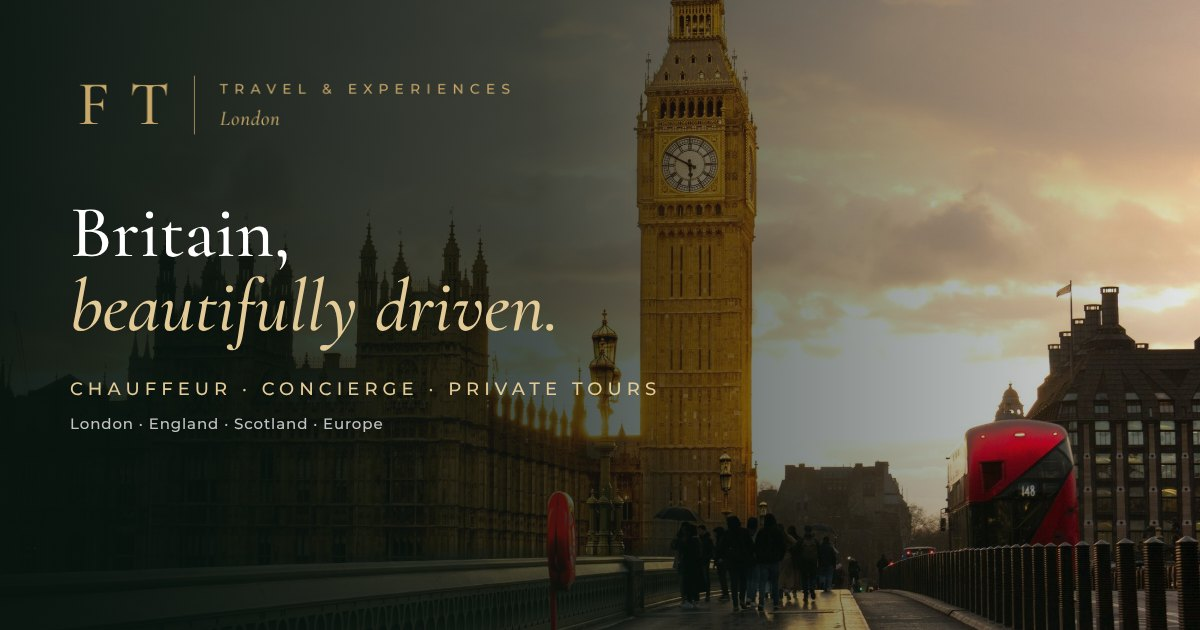
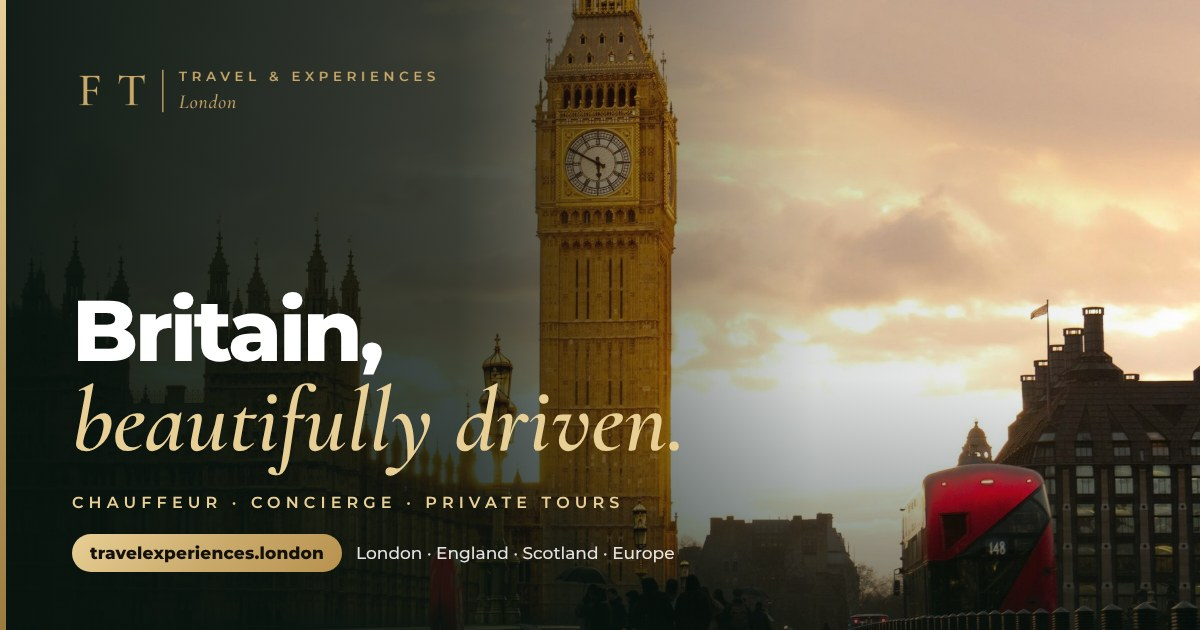
FT: thumbnail novo para compartilhar (1200×630) e versão quadrada para Instagram
Claude-Session: https://claude.ai/code/session_01WF34NWQDaXArar5L4FBBGZ

diff --git a/ft/index.html b/ft/index.html
@@ -10,7 +10,7 @@
 <meta property="og:type" content="website">
 <meta property="og:title" content="FT Travel & Experiences — Britain, beautifully driven.">
 <meta property="og:description" content="Chauffeur, concierge and private journeys across England, Scotland and Europe, in executive Mercedes.">
-<meta property="og:image" content="https://guia.eugeniofim.com/ft/og.jpg?v=3">
+<meta property="og:image" content="https://guia.eugeniofim.com/ft/og.jpg?v=4">
 <meta property="og:image:width" content="1200"><meta property="og:image:height" content="630">
 <meta property="og:url" content="https://guia.eugeniofim.com/ft/">
 <meta property="og:site_name" content="FT Travel & Experiences">
